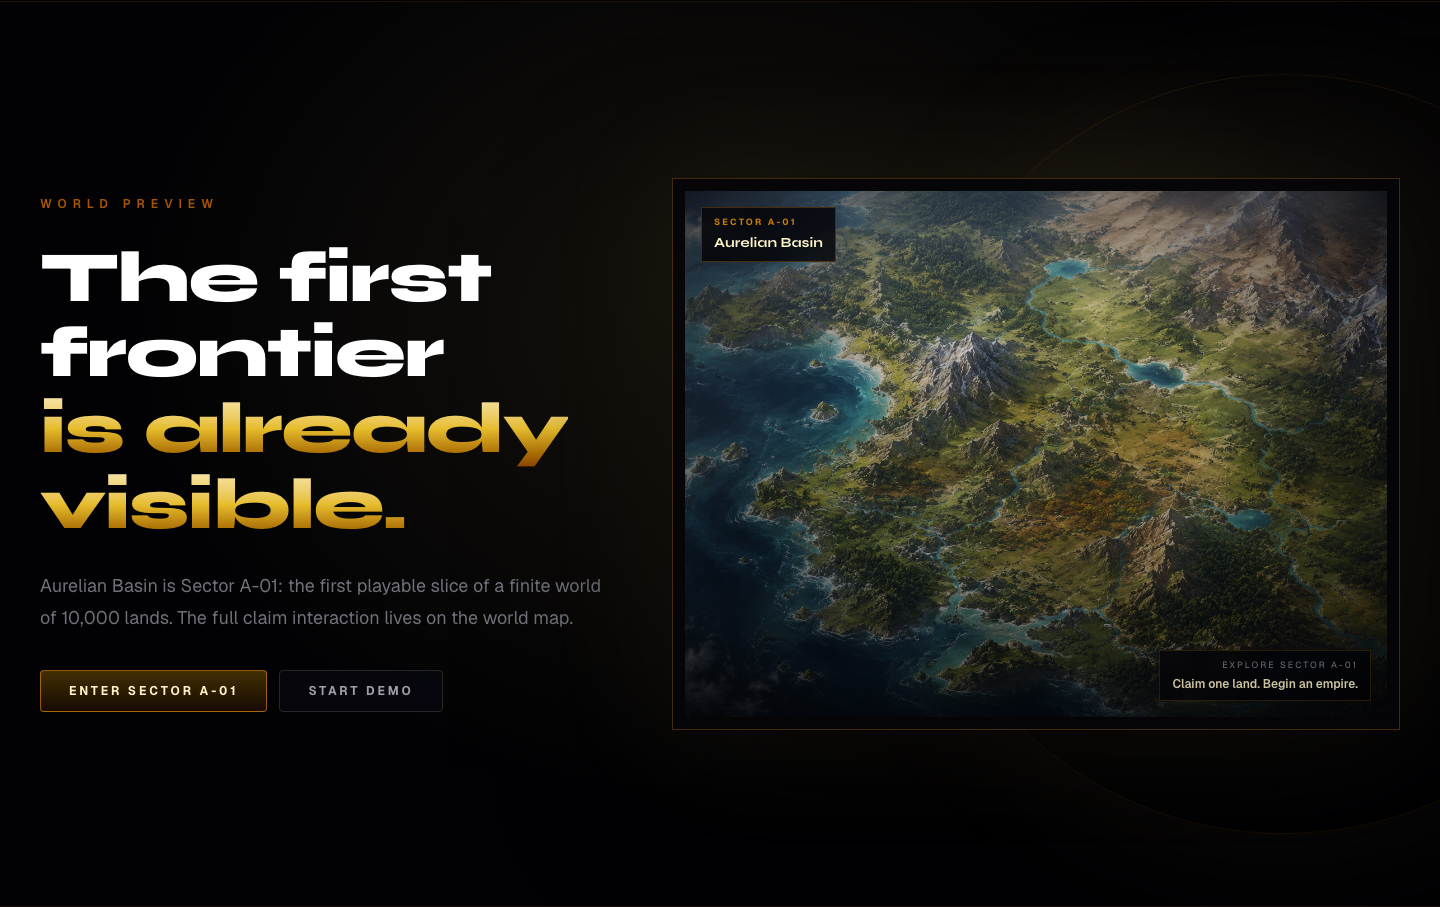
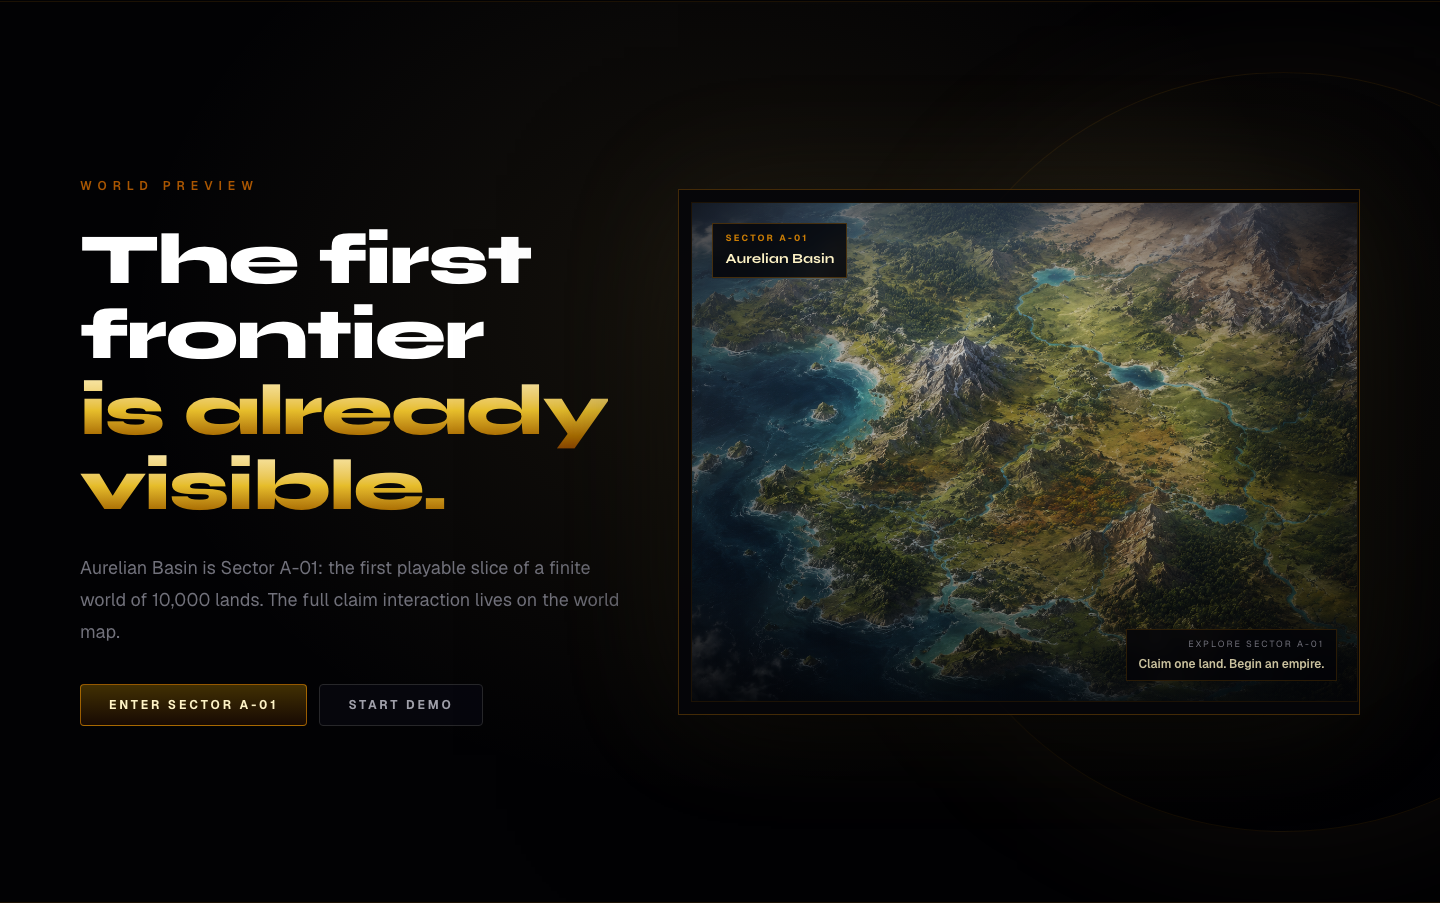
Fix landing map frame containment and lock visual QA gate

diff --git a/app/page.tsx b/app/page.tsx
@@ -700,7 +700,7 @@ export default function Home() {
             aria-hidden
             className="pointer-events-none absolute right-[-14rem] top-1/2 hidden h-[760px] w-[760px] -translate-y-1/2 rounded-full border border-amber-500/8 bg-[radial-gradient(circle_at_35%_35%,rgba(201,169,98,0.12)_0%,rgba(201,169,98,0.035)_34%,rgba(2,2,4,0.72)_72%,rgba(2,2,4,0.96)_100%)] shadow-[0_0_150px_rgba(201,169,98,0.08)] lg:block"
           />
-          <div className="relative mx-auto grid max-w-[1500px] gap-10 sm:gap-12 lg:grid-cols-[minmax(0,0.78fr)_minmax(520px,1fr)] lg:items-center xl:gap-16">
+          <div className="relative mx-auto grid max-w-7xl gap-10 sm:gap-12 lg:grid-cols-[minmax(0,0.78fr)_minmax(0,0.98fr)] lg:items-center xl:gap-14">
             <div>
               <p className="text-xs font-semibold uppercase tracking-[0.5em] text-amber-600/75">
                 World Preview
@@ -737,9 +737,9 @@ export default function Home() {
 
             <div
               data-qa="landing-map-frame"
-              className="relative border border-amber-500/25 bg-[#050509]/90 p-2 shadow-[0_40px_150px_rgba(0,0,0,0.68),0_0_120px_rgba(201,169,98,0.12)] sm:p-3"
+              className="relative w-full max-w-[760px] justify-self-center overflow-hidden border border-amber-500/25 bg-[#050509]/90 p-2 shadow-[0_40px_150px_rgba(0,0,0,0.68),0_0_120px_rgba(201,169,98,0.12)] sm:p-3 lg:justify-self-end"
             >
-              <div className="relative min-h-[360px] bg-[#030306] sm:aspect-[4/3] sm:min-h-[420px] lg:min-h-[520px]">
+              <div className="relative min-h-[340px] overflow-hidden border border-amber-500/10 bg-[#030306] sm:aspect-[4/3] sm:min-h-[400px] lg:min-h-[500px]">
                 <div className="absolute inset-0 overflow-hidden">
                   <img
                     src="/assets/world-map/aurelian-basin-v1.png"
@@ -750,7 +750,7 @@ export default function Home() {
                   <div className="absolute inset-0 bg-[linear-gradient(180deg,rgba(2,2,4,0.04),rgba(2,2,4,0.48))]" />
                   <div className="absolute inset-0 bg-[radial-gradient(ellipse_at_center,transparent_38%,rgba(2,2,4,0.72)_100%)]" />
                 </div>
-                <div className="pointer-events-none absolute inset-0 z-10 flex flex-col justify-between gap-4 p-3 sm:p-4">
+                <div className="pointer-events-none absolute inset-0 z-10 flex flex-col justify-between gap-4 p-4 sm:p-5">
                   <div className="self-stretch border border-amber-500/25 bg-[#030306]/82 px-3 py-2 backdrop-blur-sm sm:self-start">
                     <p className="text-[9px] font-bold uppercase tracking-[0.24em] text-amber-500/80">
                       Sector A-01

diff --git a/public/qa/latest/index.html b/public/qa/latest/index.html
@@ -21,7 +21,7 @@
     <header>
       <p class="eyebrow">Pixel Nations QA Evidence</p>
       <h1>Public QA Evidence</h1>
-      <p>Generated: <code>2026-06-19T19:23:15.058Z</code></p>
+      <p>Generated: <code>2026-06-19T20:16:43.577Z</code></p>
       <p>This page is a stable public entry point for the latest committed QA artifacts.</p>
     </header>
 

diff --git a/public/qa/latest/report.html b/public/qa/latest/report.html
@@ -27,7 +27,7 @@
     <header>
       <p class="eyebrow">Pixel Nations QA Report</p>
       <h1>Pixel Nations QA Report</h1>
-      <p>Generated: <code>2026-06-19T19:23:15.058Z</code></p>
+      <p>Generated: <code>2026-06-19T20:16:43.577Z</code></p>
       <p>App source: <code>existing local app</code></p>
     </header>
 

diff --git a/docs/VISUAL_PROMPT_QA_GATE_PROTOCOL.md b/docs/VISUAL_PROMPT_QA_GATE_PROTOCOL.md
@@ -1,0 +1,66 @@
+# Visual Prompt QA Gate Protocol v0.1
+
+Status: ACTIVE  
+Owner: Product Lead / Prompt QA Lead / Visual QA Lead / Frontend Layout Lead / First-Time Tester Proxy  
+Created after: landing map frame clipping fix created a new visual regression where the map image bled outside its frame.
+
+## Why This Exists
+
+Pixel Nations cannot afford repeated visual Cursor loops. Screenshot evidence and smoke tests are not enough when a bug is about layout, framing, clipping, art direction, or first impression.
+
+A user screenshot complaint is not an automatic Cursor sprint. It is a diagnosis gate.
+
+## Required Flow For Visual/Layout Bugs
+
+1. Identify the exact visible artifact.
+2. Classify it:
+   - layout bug,
+   - clipping/overflow bug,
+   - visual polish issue,
+   - content/copy issue,
+   - gameplay clarity issue,
+   - geography/cartography continuity issue.
+3. Name the primary bug and secondary observations separately.
+4. Define what must not change.
+5. Define hard layout invariants.
+6. Prefer deterministic patch packages over Cursor.
+7. Use Cursor only when a direct patch is unsafe or the exact implementation is too broad.
+8. Before merge, require real visual review, not only smoke/screenshot generation.
+
+## Prompt QA Checklist Before Cursor
+
+Every Cursor prompt for visual work must answer:
+
+- What exact artifact is being fixed?
+- What files/components are likely responsible?
+- What must not change?
+- What layout invariants must remain true?
+- What viewports must be checked?
+- What regression risks are forbidden?
+- What evidence proves success?
+- What is the stop condition?
+- Is Cursor allowed to be creative? Default answer: no.
+
+## Visual QA Checklist Before Merge
+
+For landing/map/public-demo UI, inspect:
+
+- no text clipped by a frame,
+- no image pixels bleeding outside the intended frame,
+- border surrounds the full image/card coherently,
+- overlay labels are readable and safely inset,
+- desktop first fold looks production-quality,
+- mobile first fold has no crop/overflow regression,
+- screenshot bundle includes the affected screen,
+- real-browser user view is accepted when available.
+
+## Cursor Budget Rule
+
+Cursor is blocked for visual bugfixes until:
+- diagnosis is complete,
+- prompt has passed Prompt QA,
+- direct patch has been considered first,
+- rollback path is known,
+- expected spend is justified.
+
+Reserve at least 20% of the monthly Cursor budget for emergency/project-critical work.

diff --git a/docs/QA_GOVERNANCE_PROTOCOL.md b/docs/QA_GOVERNANCE_PROTOCOL.md
@@ -173,3 +173,16 @@ A screenshot PASS is not sufficient if:
 - map labels/overlays are clipped by frames.
 
 These are product-trust issues, not only visual polish issues.
+
+
+## Visual Prompt QA Gate
+
+For visual/layout/map/landing-page changes, follow `docs/VISUAL_PROMPT_QA_GATE_PROTOCOL.md`.
+
+Smoke PASS and screenshot generation do not equal visual acceptance. A merge is blocked if:
+- map/image content bleeds outside its frame,
+- text is clipped by a frame,
+- the visual fix creates a new first-impression regression,
+- a Cursor prompt did not pass Prompt QA for visual work.
+
+Prefer deterministic patch packages before spending Cursor budget on visual bugfixes.
